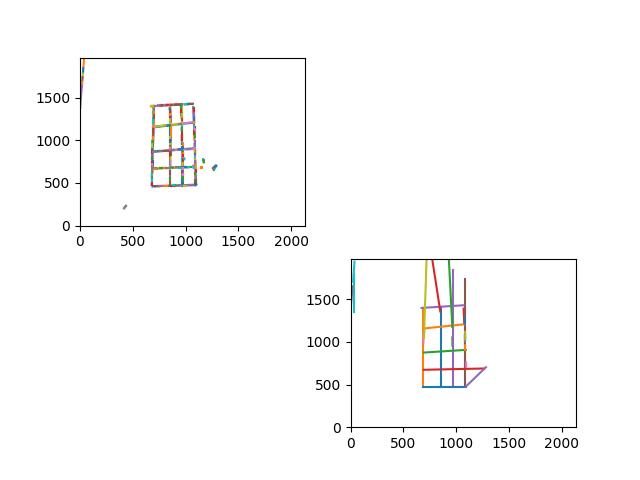
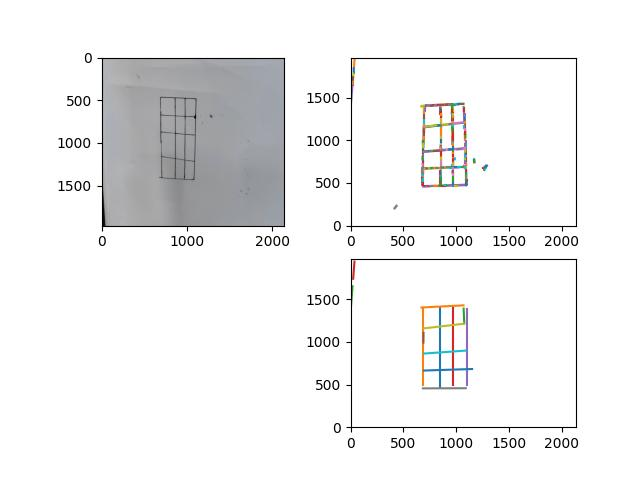
fix: filter fly point

diff --git a/cv2_test.py b/cv2_test.py
@@ -9,16 +9,80 @@ from typing import Dict, List
 import cv2
 import numpy as np
 import matplotlib.pyplot as plt
+from matplotlib.image import imread
 
-def fit_line(lines: np.ndarray, pos_offset=100, angle_offset=10, thickness=2, gap_filter=50):
+def get_line_point(lines: list, offset: tuple) -> list:
+    """
+    获取线段两端点坐标
+    Args:
+        lines (list): 霍夫直线结果线段
+        offset (tuple): 线段偏移比值，线段偏移值，线段偏移角度，当角度偏移为90度时，偏移值为x坐标
+    Returns:
+        list: 线段两端点坐标 [point1, point2]
+    """
+    k, b, angle = offset
+    x1, y1, x2, y2 = lines[0]
+    min_x, max_x = (x1, x2) if x1 < x2 else (x2, x1)
+    min_y, max_y = (y1, y2) if y1 < y2 else (y2, y1)
+    for line in lines[1:]:
+        x1, y1, x2, y2 = line
+        min_x = min(min_x, x1, x2)
+        max_x = max(max_x, x1, x2)
+        min_y = min(min_y, y1, y2)
+        max_y = max(max_y, y1, y2)
+    if angle not in (0, 90):
+        min_y = min_x * k + b
+        max_y = max_y * k + b
+    return [(min_x, min_y), (max_x, max_y)]
+
+
+def get_pos_length(point1: tuple, point2: tuple):
+    """
+    获取两点之间长度
+    Args:
+        point1 (tuple): 点1坐标
+        point2 (tuple): 点2坐标
+    Returns:
+        float: 两点之间长度
+    """
+    line_length = math.sqrt((point1[0] - point2[0]) ** 2 + (point1[1] - point2[1]) ** 2)
+    return line_length
+
+
+def sort_group(lines: list, angle: float):
+    """
+    对线段组排序
+    Args:
+        lines (list): 线段组
+        angle (float): 线段偏移角度
+    Returns:
+        list: 排序后的线段组
+    """
+    if not lines:
+        return lines
+    if angle == 90:
+        lines = list(sorted(lines, key=lambda x: x[0][1]))
+    else:
+        lines = list(sorted(lines, key=lambda x: x[0][0]))
+    return lines
+
+
+def split_group(start_x, start_y, end_x, end_y, line, result, gap_filter):
+    """
+    拆分同一线段组
+    """
+    pass
+
+
+def fit_line(lines: List[np.ndarray], pos_offset=150, angle_offset=10, gap_filter=150, line_gap=500, line_lenth=100):
     """
     拟合直线
     Args:
         lines (list): 霍夫直线结果线段
         pos_offset (int): 线段允许偏移量
         angle_offset (float): 线段允许偏移角度
-        thickness (int): 线宽
         gap_filter (int): 缝隙大小
+        point_gap (int): 线与线之间的间隙
     """
     # 已归类的线段
     line_group: List[List] = []
@@ -26,97 +90,110 @@ def fit_line(lines: np.ndarray, pos_offset=100, angle_offset=10, thickness=2, ga
     line_offset: List[tuple] = []
     # 最终线段
     result: List = []
-    # 未能归类的线段
-    line_unfind: List = []
 
-    test_line = []
-
+    # 对线段进行归类
     for line in lines:
         for x1, y1, x2, y2 in line:
-            if 600 < y1 < 800 and 600 < y2 < 800 and 500 < x1 < 1200 and 500 < x2 < 1200 and x1 != x2:
-                if (y1 - y2) / (x1 - x2) < 0:
-                    test_line.append((x1, y1, x2, y2))
-
-    for line in lines:
-        for x1, y1, x2, y2 in line:
-            # print(x1, y1, x2, y2, line)
-            # 水平线段
             if x1 == x2:
-                angle = 90
-                a = 0
-                b = x1
+                # 水平线段
+                angle, a, b = 90, 0, x1
             elif y1 == y2:
-                angle = 0
-                a = 0
-                b = y1
+                # 垂直线段
+                angle, a, b = 0, 0, y1
             else:
+                # 倾斜线段
                 a = (y2 - y1) / (x2 - x1)
                 b = y1 - a * x1
                 angle = np.arctan(a) * 57.29577
             is_find_same_line = False
             for index, offset in enumerate(line_offset):
                 if abs(angle - offset[2]) < angle_offset and abs(b - offset[1]) < pos_offset:
-                    if (x1, y1, x2, y2) in test_line:
-                        print(angle, b, offset)
                     line_group[index].append(line)
                     is_find_same_line = True
                     break
             if not is_find_same_line:
                 line_group.append([line])
                 line_offset.append((a, b, angle))
-            if (x1, y1, x2, y2) in test_line:
-                print(is_find_same_line, (a, b, angle), index)
-    # print('--------------')
 
-    # print('--------------')
+    # 各组线段求端值
     for index, group_item in enumerate(line_group):
-        # print('print group and offset-------------------')
-        # print(group_item)
-        # print(line_offset[index])
         min_x, max_x = 0, 0
-        # if len(group_item) < 10:
-        #     continue
         a, b, angle = line_offset[index]
         min_y, max_y = 0, 0
-        for line in group_item:
-            for x1, y1, x2, y2 in line:
-                if angle == 0:
-                    if min_x == 0:
-                        min_x = min(x1, x2)
-                    else:
-                        min_x = min(min_x, min(x1, x2))
-                    max_x = max(max_x, max(x1, x2))
-                    min_y = y1
-                    max_y = y1
-                elif angle == 90:
-                    min_x = max_x = x1
-                    if min_y == 0:
-                        min_y = min(y1, y2)
-                    else:
-                        min_y = min(min_y, min(y1, y2))
-                    max_y = max(max_y, max(y1, y2))
+
+        # 仅考虑x升序的情况
+        group_item = sort_group(group_item, angle)
+        start_x, start_y, end_x, end_y = group_item[0][0]
+        # start_x, end_x = min(start_x, end_x), max(start_x, end_x)
+        for item in group_item[1:]:
+            x1, y1, x2, y2 = item[0]
+
+            if angle == 0:
+                new_min_x, new_max_x = (x1, x2) if x1 < x2 else (x2, x1)
+                if new_min_x > end_x and abs(new_min_x - end_x) > gap_filter:
+                    if get_pos_length((start_x, start_y), (end_x, end_y)) > line_lenth:
+                        result.append(((start_x, end_x), (start_y, end_y)))
+                    start_x, end_x = new_min_x, new_max_x
                 else:
-                    if min_x == 0:
-                        min_x = min(x1, x2)
-                    else:
-                        min_x = min(min_x, min(x1, x2))
-                    max_x = max(max_x, max(x1, x2))
-                    max_y = int(a * max_x + b)
-                    min_y = int(a * min_x + b)
-        # a, b, angle = line_offset[index]
-        # max_y = int(a * max_x + b)
-        # min_y = int(a * min_x + b)
-        # print(min_x, max_x, min_y, max_y)
-        if index == 5:
-            print(min_x, max_x, min_y, max_y)
-        if abs(max_x-min_x) < gap_filter and abs(max_y - min_y) < gap_filter:
-            continue
-        result.append([(min_x, max_x), (min_y, max_y)])
-        # cv2.line(result, (min_x, min_y), (max_x, max_y), thickness)
-    # print(result[0])
+                    start_x = min(start_x, new_min_x)
+                    end_x = max(end_x, new_max_x)
+
+            elif angle == 90:
+                new_min_y, new_max_y = (y1, y2) if y1 < y2 else (y2, y1)
+                if new_min_y > end_y and abs(new_min_y - end_y) > gap_filter:
+                    if get_pos_length((start_x, start_y), (end_x, end_y)) > line_lenth:
+                        result.append(((start_x, end_x), (start_y, end_y)))
+                    start_y, end_y = new_min_y, new_max_y
+                else:
+                    start_y = min(start_y, new_min_y)
+                    end_y = max(end_y, new_max_y)
+
+            else:
+                new_min_x, new_min_y, new_max_x, new_max_y = (x1, y1, x2, y2) if x1 < x2 else (x2, y2, x1, y1)
+                if new_min_x > end_x and get_pos_length((end_x, end_y), (new_min_x, new_min_y)) > line_gap:
+                    if get_pos_length((start_x, start_y), (end_x, end_y)) > line_lenth:
+                        result.append(((start_x, end_x), (start_y, end_y)))
+                    start_x, start_y, end_x, end_y = new_min_x, new_min_y, new_max_x, new_max_y
+                else:
+                    start_x, start_y = (start_x, start_y) if start_x < new_min_x else (new_min_x, new_min_y)
+                    end_x, end_y = (end_x, end_y) if end_x > new_max_x else (new_max_x, new_max_y)
+        if get_pos_length((start_x, start_y), (end_x, end_y)) > line_lenth:
+            result.append(((start_x, end_x), (start_y, end_y)))
+
+
+        # # 旧版直线拟合方法
+        # for line in group_item:
+        #     for x1, y1, x2, y2 in line:
+        #         if angle == 0:
+        #             if min_x == 0:
+        #                 min_x = min(x1, x2)
+        #             else:
+        #                 min_x = min(min_x, min(x1, x2))
+        #             max_x = max(max_x, max(x1, x2))
+        #             min_y = y1
+        #             max_y = y1
+        #         elif angle == 90:
+        #             min_x = max_x = x1
+        #             if min_y == 0:
+        #                 min_y = min(y1, y2)
+        #             else:
+        #                 min_y = min(min_y, min(y1, y2))
+        #             max_y = max(max_y, max(y1, y2))
+        #         else:
+        #             if min_x == 0:
+        #                 min_x = min(x1, x2)
+        #             else:
+        #                 min_x = min(min_x, min(x1, x2))
+        #             max_x = max(max_x, max(x1, x2))
+        #             max_y = int(a * max_x + b)
+        #             min_y = int(a * min_x + b)
+        # if abs(max_x-min_x) < gap_filter and abs(max_y - min_y) < gap_filter:
+        #     continue
+        # result.append([(min_x, max_x), (min_y, max_y)])
+        # # cv2.line(result, (min_x, min_y), (max_x, max_y), thickness)
     return result
 
-file_name = '2'
+file_name = '6'
 
 img_dir = f"./{file_name}.jpg"
 save_dir = f"./{file_name}_result.jpg"
@@ -160,8 +237,12 @@ lines = cv2.HoughLinesP(edges, 1, np.pi / 180, 20, np.array([]), minLineLength, 
 # print(lines)
 # print('----------------')
 
-# 设置范围
 plt.subplot(2, 2, 1)
+plt_img = imread(img_dir)
+plt.imshow(img)
+
+# 设置范围
+plt.subplot(2, 2, 2)
 plt.xlim(0, w)
 plt.ylim(0, h)
 
